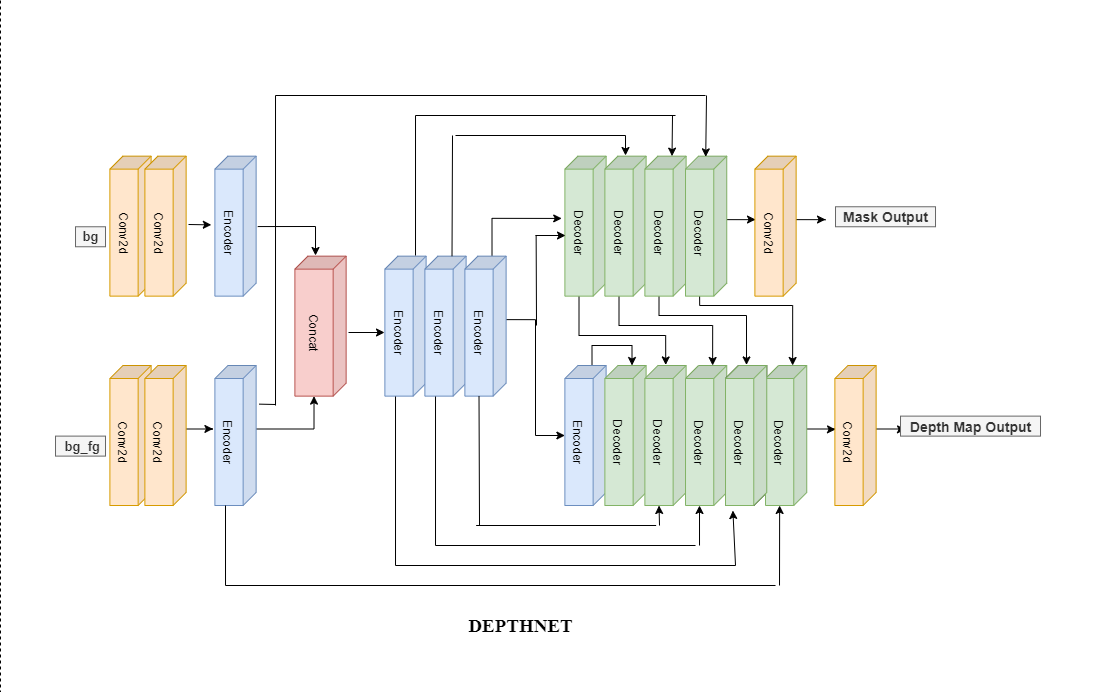
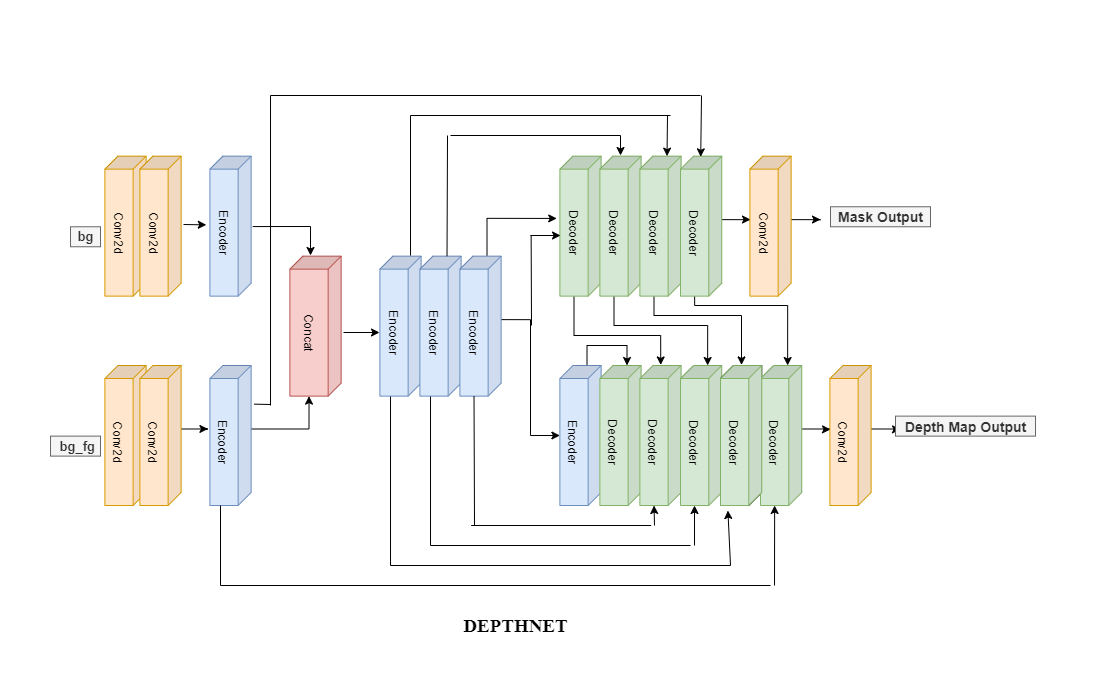
Update README

diff --git a/README.md b/README.md
@@ -75,7 +75,7 @@ The code for MaskNet can be seen [here](deepnet/model/models/masknet.py)
 ### Architecture
 
 <p align="center">
-     <img src="images/depthnet.png" width="700px" height="450px" >
+     <img src="images/depthnet.png" >
 </p>
 
 In the architecture **bg** denotes the background image and **bg_fg** denotes background-foreground image. DepthNet follows a encoder-decoder model, since we want images as an output, we convolve the images to get the features by encoding and then convolve up, namely `UpSample`, decoding the image to reach it's initial dimension.
@@ -88,7 +88,7 @@ The model is fully convolutional and includes efficient residual up-sampling blo
 The first section of the network is proprietary for combining the the inputs together by concatenating them. The second part is a sequence of convolutional and interpolate layers that guide the network in learning its upscaling. In the end a final convolution is applied that yeilds the final predictions. 
 
 <p align="center">
-     <img src="images/decoder.png" width="350px" height="250px" >
+     <img src="images/decoder.png" width="450px" height="300px" >
 </p>
 
 ### Approach for DepthNet
